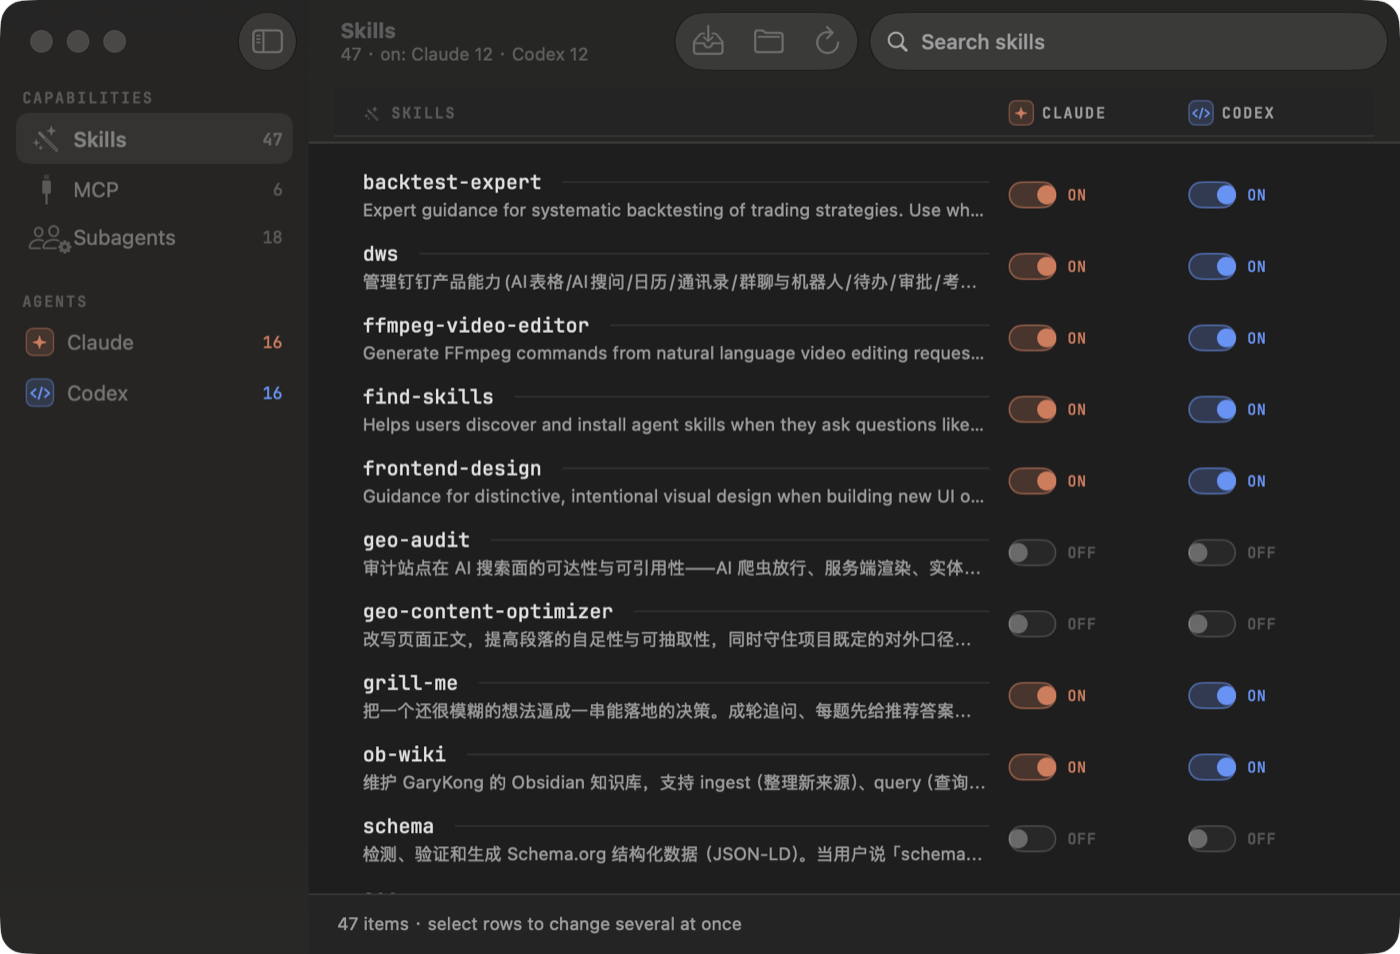
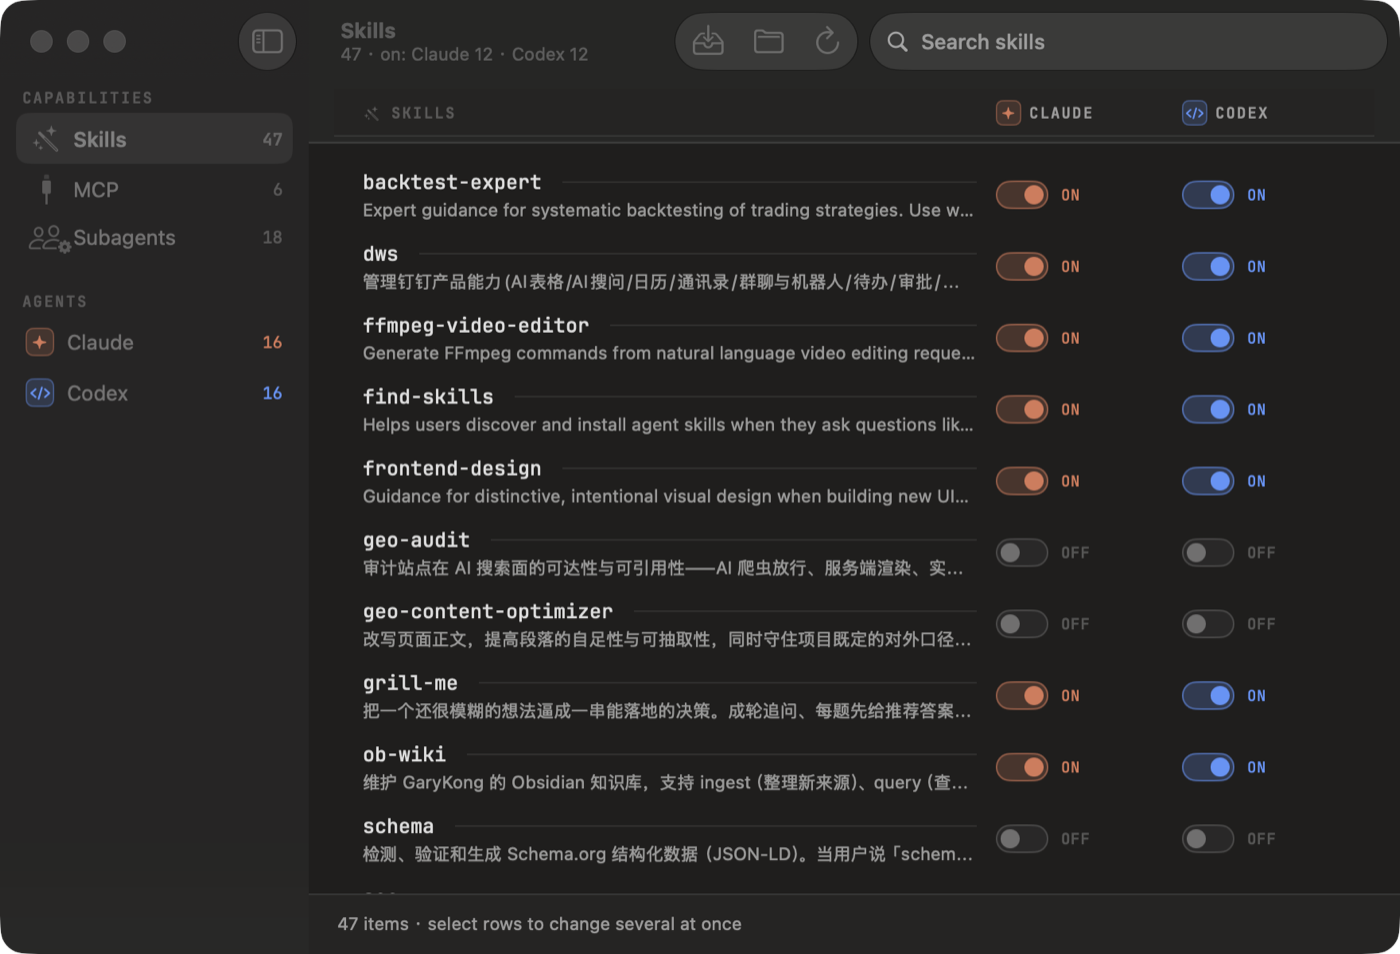
Stop the switch knob landing on the track border
The knob was positioned with a hand-computed offset, and at the regular size
the arithmetic put its edge at exactly the track's half-width: 33/2 = 16.5
against a knob edge at 16.5, so it sat precisely on the 1pt stroke rather than
inside it.

Positioning it with padding instead makes the clearance structural — the gap
is the inset, by construction, and cannot drift at either size. The track also
grew slightly so the knob has somewhere to travel to without crowding the end.

Same constants flow to the menu bar popover, which shares the control. Its
width went up to fit the wider switch bank without squeezing the identifier
column, and the per-agent counts in its header are now aligned to the switch
columns below them.

diff --git a/Sources/AgentCapabilityManager/AgentSwitch.swift b/Sources/AgentCapabilityManager/AgentSwitch.swift
@@ -19,10 +19,14 @@ struct AgentSwitch: View {
                 ? CGSize(width: Metrics.trackWidth, height: Metrics.trackHeight)
                 : CGSize(width: Metrics.compactTrackWidth, height: Metrics.compactTrackHeight)
         }
+        /// Clearance between the knob and the inside of the track, on every side.
+        var knobInset: CGFloat {
+            self == .regular ? Metrics.knobInset : Metrics.compactKnobInset
+        }
         var labelWidth: CGFloat {
             self == .regular ? Metrics.statusLabelWidth : Metrics.compactLabelWidth
         }
-        var gap: CGFloat { self == .regular ? 7 : 5 }
+        var gap: CGFloat { self == .regular ? 8 : 6 }
         var font: Font { self == .regular ? .status : .statusCompact }
     }
 
@@ -58,42 +62,39 @@ struct AgentSwitch: View {
     }
 
     private var track: some View {
-        let size = self.size.track
-        let radius = size.height / 2
-        let knobDiameter = size.height - 5
+        let track = size.track
+        let inset = size.knobInset
+        let knobDiameter = track.height - inset * 2
 
-        return ZStack {
-            Capsule()
-                .fill(status == .on ? tint.opacity(0.24) : Color.primary.opacity(0.055))
-
-            Capsule()
-                .strokeBorder(
+        return Capsule()
+            .fill(status == .on ? tint.opacity(0.24) : Color.primary.opacity(0.055))
+            .overlay {
+                Capsule().strokeBorder(
                     tint.opacity(status == .on ? 0.55 : 0.28),
-                    style: StrokeStyle(
-                        lineWidth: 1,
-                        dash: status.isGoverned ? [] : [2.2, 2.2]
-                    )
+                    style: StrokeStyle(lineWidth: 1, dash: status.isGoverned ? [] : [2.2, 2.2])
                 )
-
-            if let knob = status.knob {
-                Circle()
-                    .fill(tint.opacity(status == .off ? 0.55 : 1))
-                    .frame(width: knobDiameter, height: knobDiameter)
-                    .offset(x: offset(for: knob, in: size, radius: radius))
             }
-        }
-        .frame(width: size.width, height: size.height)
-        .scaleEffect(isHovering && isLive ? 1.06 : 1)
-        .animation(.snappy(duration: 0.18), value: status)
-        .animation(.snappy(duration: 0.14), value: isHovering)
+            // Positioned by padding, so the clearance from the border is the inset by construction.
+            // The previous version computed an offset that put the knob's edge exactly on the stroke.
+            .overlay(alignment: alignment) {
+                if status.knob != nil {
+                    Circle()
+                        .fill(tint.opacity(status == .off ? 0.6 : 1))
+                        .frame(width: knobDiameter, height: knobDiameter)
+                        .padding(inset)
+                }
+            }
+            .frame(width: track.width, height: track.height)
+            .scaleEffect(isHovering && isLive ? 1.06 : 1)
+            .animation(.snappy(duration: 0.18), value: status)
+            .animation(.snappy(duration: 0.14), value: isHovering)
     }
 
-    private func offset(for knob: ExposureStatus.KnobPosition, in size: CGSize, radius: CGFloat) -> CGFloat {
-        let travel = size.width / 2 - radius + (radius - (size.height - 5) / 2)
-        switch knob {
-        case .leading: return -travel
-        case .trailing: return travel
-        case .middle: return 0
+    private var alignment: Alignment {
+        switch status.knob {
+        case .leading: .leading
+        case .trailing: .trailing
+        case .middle, nil: .center
         }
     }
 

diff --git a/Sources/AgentCapabilityManager/MenuBarPanel.swift b/Sources/AgentCapabilityManager/MenuBarPanel.swift
@@ -25,7 +25,7 @@ struct MenuBarPanel: View {
             Divider()
             footer
         }
-        .frame(width: 348)
+        .frame(width: 372)
         .frame(minHeight: 320, maxHeight: 520)
     }
 
@@ -68,14 +68,16 @@ struct MenuBarPanel: View {
                 .overlay { Capsule().strokeBorder(Palette.rule, lineWidth: 1) }
 
                 // Live count per agent for the kind on screen: the popover's whole reason to exist.
+                // Aligned to the switch columns below so the eye maps count to column.
                 ForEach(AgentKind.allCases, id: \.self) { agent in
-                    HStack(spacing: 3) {
+                    HStack(spacing: 4) {
                         AgentMark(agent: agent, size: 14)
                         Text("\(model.onCount(agent))")
                             .font(.counter)
                             .foregroundStyle(agent.tint)
                             .contentTransition(.numericText())
                     }
+                    .frame(width: Metrics.compactSwitchWidth, alignment: .leading)
                     .help("\(agent.displayName) loads \(model.onCount(agent)) of these")
                 }
             }
@@ -137,7 +139,7 @@ struct MenuBarPanel: View {
                             }
                         }
                         .padding(.horizontal, 12)
-                        .padding(.vertical, 3)
+                        .padding(.vertical, 3.5)
                         .help(capability.summary ?? capability.name)
                     }
                 }

diff --git a/Sources/AgentCapabilityManager/DesignSystem.swift b/Sources/AgentCapabilityManager/DesignSystem.swift
@@ -28,16 +28,22 @@ enum Metrics {
     static let rowSpacing: CGFloat = 12
 
     /// The switch itself, then the mono status word beside it.
-    static let trackWidth: CGFloat = 30
-    static let trackHeight: CGFloat = 17
+    ///
+    /// `knobInset` is the gap between the knob and the inside of the track, and it is applied as
+    /// padding rather than computed into an offset — that way the clearance is guaranteed by the
+    /// layout instead of by arithmetic that can land the knob exactly on the border.
+    static let trackWidth: CGFloat = 33
+    static let trackHeight: CGFloat = 18
+    static let knobInset: CGFloat = 3
     static let statusLabelWidth: CGFloat = 62
     static let switchGap: CGFloat = 14
-    static var switchWidth: CGFloat { trackWidth + 7 + statusLabelWidth }
+    static var switchWidth: CGFloat { trackWidth + 8 + statusLabelWidth }
 
-    static let compactTrackWidth: CGFloat = 24
-    static let compactTrackHeight: CGFloat = 14
-    static let compactLabelWidth: CGFloat = 44
-    static var compactSwitchWidth: CGFloat { compactTrackWidth + 5 + compactLabelWidth }
+    static let compactTrackWidth: CGFloat = 27
+    static let compactTrackHeight: CGFloat = 15
+    static let compactKnobInset: CGFloat = 2.5
+    static let compactLabelWidth: CGFloat = 50
+    static var compactSwitchWidth: CGFloat { compactTrackWidth + 6 + compactLabelWidth }
 }
 
 /// The machine-facing typeface.
